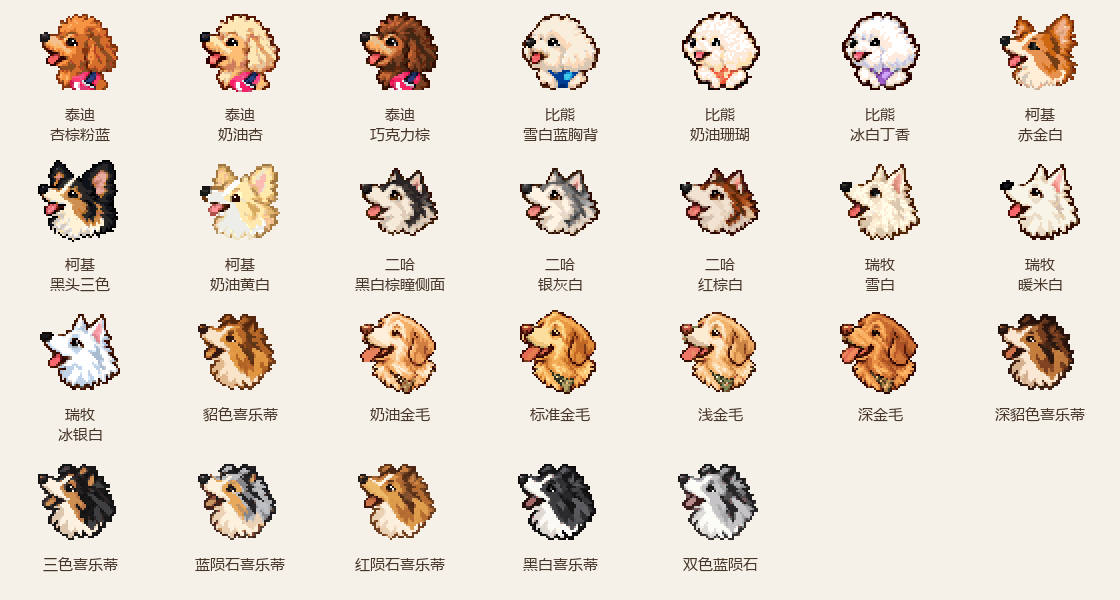
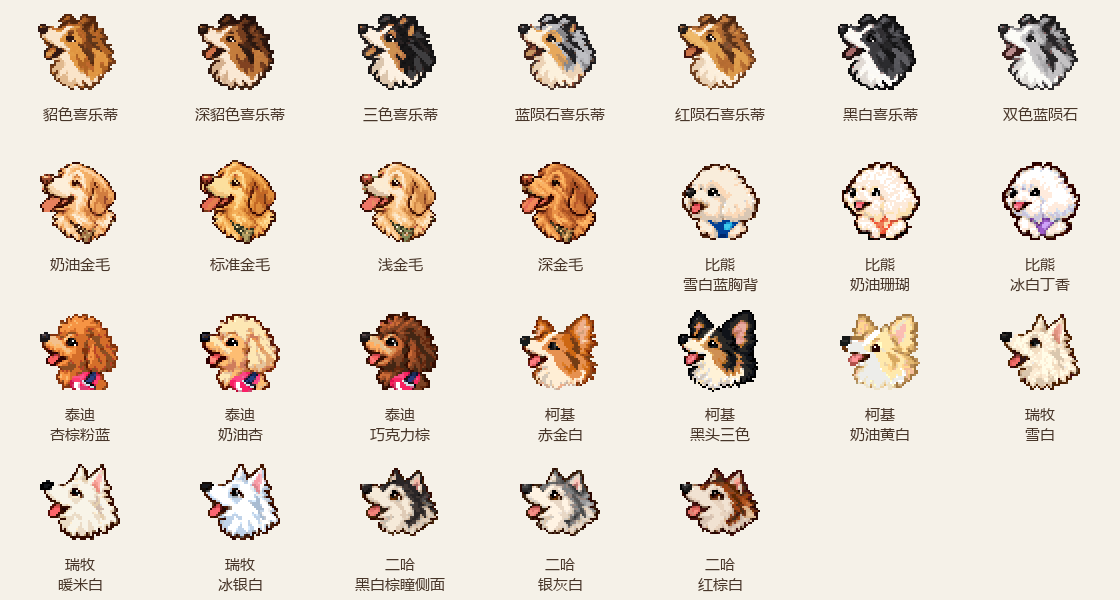
Order README breeds as Sheltie Golden Bichon Teddy Corgi Swiss Husky

diff --git a/README.md b/README.md
@@ -2,10 +2,10 @@
 
 ## 全部犬种：7种狗狗，26款配色
 
-| 泰迪 | 比熊 | 柯基 | 二哈 | 瑞牧 | 喜乐蒂 | 金毛 |
+| 喜乐蒂 | 金毛 | 比熊 | 泰迪 | 柯基 | 瑞牧 | 二哈 |
 |---|---|---|---|---|---|---|
-| <img src="playground/assets/teddy-profile-v6/avatar.png" width="80" alt="泰迪像素指针"> | <img src="playground/assets/bichon-photo-v3/avatar.png" width="80" alt="比熊像素指针"> | <img src="playground/assets/corgi-photo-v3/avatar.png" width="80" alt="柯基像素指针"> | <img src="playground/assets/husky-profile-v6/avatar.png" width="80" alt="二哈像素指针"> | <img src="playground/assets/swiss-profile-v6/avatar.png" width="80" alt="瑞牧像素指针"> | <img src="playground/assets/pet-pixel-complete/avatar.png" width="80" alt="喜乐蒂像素指针"> | <img src="playground/assets/golden-cream-pixel/avatar.png" width="80" alt="金毛像素指针"> |
-| 3款配色 | 3款配色 | 3款配色 | 3款配色 | 3款配色 | 7款配色 | 4款配色 |
+| <img src="playground/assets/pet-pixel-complete/avatar.png" width="80" alt="喜乐蒂像素指针"> | <img src="playground/assets/golden-cream-pixel/avatar.png" width="80" alt="金毛像素指针"> | <img src="playground/assets/bichon-photo-v3/avatar.png" width="80" alt="比熊像素指针"> | <img src="playground/assets/teddy-profile-v6/avatar.png" width="80" alt="泰迪像素指针"> | <img src="playground/assets/corgi-photo-v3/avatar.png" width="80" alt="柯基像素指针"> | <img src="playground/assets/swiss-profile-v6/avatar.png" width="80" alt="瑞牧像素指针"> | <img src="playground/assets/husky-profile-v6/avatar.png" width="80" alt="二哈像素指针"> |
+| 7款配色 | 4款配色 | 3款配色 | 3款配色 | 3款配色 | 3款配色 | 3款配色 |
 
 ![全部26款像素主题总览](docs/images/all-26-themes-v6.png)
 
@@ -33,19 +33,19 @@ python -m http.server 8766 --directory playground
 
 | 伙伴 | 原色 | 配色一 | 配色二 |
 |---|---|---|---|
-| 泰迪 | [杏棕粉蓝](https://raw.githubusercontent.com/CYemin/Pet-mouse-pointer/main/playground/downloads/teddy-profile-v6.zip) | [奶油杏](https://raw.githubusercontent.com/CYemin/Pet-mouse-pointer/main/playground/downloads/teddy-cream-profile-v6.zip) | [巧克力棕](https://raw.githubusercontent.com/CYemin/Pet-mouse-pointer/main/playground/downloads/teddy-chocolate-profile-v6.zip) |
 | 比熊 | [雪白蓝胸背](https://raw.githubusercontent.com/CYemin/Pet-mouse-pointer/main/playground/downloads/bichon-photo-v3.zip) | [奶油珊瑚](https://raw.githubusercontent.com/CYemin/Pet-mouse-pointer/main/playground/downloads/bichon-cream-coral-v5.zip) | [冰白丁香](https://raw.githubusercontent.com/CYemin/Pet-mouse-pointer/main/playground/downloads/bichon-ice-lilac-v5.zip) |
+| 泰迪 | [杏棕粉蓝](https://raw.githubusercontent.com/CYemin/Pet-mouse-pointer/main/playground/downloads/teddy-profile-v6.zip) | [奶油杏](https://raw.githubusercontent.com/CYemin/Pet-mouse-pointer/main/playground/downloads/teddy-cream-profile-v6.zip) | [巧克力棕](https://raw.githubusercontent.com/CYemin/Pet-mouse-pointer/main/playground/downloads/teddy-chocolate-profile-v6.zip) |
 | 柯基 | [赤金白](https://raw.githubusercontent.com/CYemin/Pet-mouse-pointer/main/playground/downloads/corgi-photo-v3.zip) | [黑头三色](https://raw.githubusercontent.com/CYemin/Pet-mouse-pointer/main/playground/downloads/corgi-tricolor-v5.zip) | [奶油黄白](https://raw.githubusercontent.com/CYemin/Pet-mouse-pointer/main/playground/downloads/corgi-cream-v5.zip) |
-| 二哈 | [黑白棕瞳侧面](https://raw.githubusercontent.com/CYemin/Pet-mouse-pointer/main/playground/downloads/husky-profile-v6.zip) | [银灰白](https://raw.githubusercontent.com/CYemin/Pet-mouse-pointer/main/playground/downloads/husky-silver-profile-v6.zip) | [红棕白](https://raw.githubusercontent.com/CYemin/Pet-mouse-pointer/main/playground/downloads/husky-red-profile-v6.zip) |
 | 瑞牧 | [雪白](https://raw.githubusercontent.com/CYemin/Pet-mouse-pointer/main/playground/downloads/swiss-profile-v6.zip) | [暖米白](https://raw.githubusercontent.com/CYemin/Pet-mouse-pointer/main/playground/downloads/swiss-ivory-profile-v6.zip) | [冰银白](https://raw.githubusercontent.com/CYemin/Pet-mouse-pointer/main/playground/downloads/swiss-ice-profile-v6.zip) |
+| 二哈 | [黑白棕瞳侧面](https://raw.githubusercontent.com/CYemin/Pet-mouse-pointer/main/playground/downloads/husky-profile-v6.zip) | [银灰白](https://raw.githubusercontent.com/CYemin/Pet-mouse-pointer/main/playground/downloads/husky-silver-profile-v6.zip) | [红棕白](https://raw.githubusercontent.com/CYemin/Pet-mouse-pointer/main/playground/downloads/husky-red-profile-v6.zip) |
 
 ### 侧面鼻尖 v6
 
 泰迪、二哈、瑞牧及各自配色已按喜乐蒂的粗像素风格重绘为侧面，保留短圆嘴与垂耳、黑白面罩、白色长围脖等各自特征。点选类以突出且可见的鼻尖定位，眨眼、动耳和抬爪时保持接触点稳定。文字、精确定位、手写、缩放和移动使用相应操作标记。
 
-| 泰迪 | 二哈 | 瑞牧 |
+| 泰迪 | 瑞牧 | 二哈 |
 |:---:|:---:|:---:|
-| <img src="playground/assets/teddy-profile-v6/avatar.png" width="96" alt="侧面泰迪鼻尖指针"> | <img src="playground/assets/husky-profile-v6/avatar.png" width="96" alt="侧面二哈鼻尖指针"> | <img src="playground/assets/swiss-profile-v6/avatar.png" width="96" alt="侧面瑞牧鼻尖指针"> |
+| <img src="playground/assets/teddy-profile-v6/avatar.png" width="96" alt="侧面泰迪鼻尖指针"> | <img src="playground/assets/swiss-profile-v6/avatar.png" width="96" alt="侧面瑞牧鼻尖指针"> | <img src="playground/assets/husky-profile-v6/avatar.png" width="96" alt="侧面二哈鼻尖指针"> |
 
 九款重绘主题共153张逐状态动画图。已完成原生加载/绘制、逐帧及正常/慢速播放复查和安装器预演；网页校验30,145个无损图集单元及5,040个鼻缘接触点。比熊、柯基和经典主题沿用已有成果。手绘小狗、黑猫抱箭头及被退回的正面头像方案不在当前体验页中。
 
